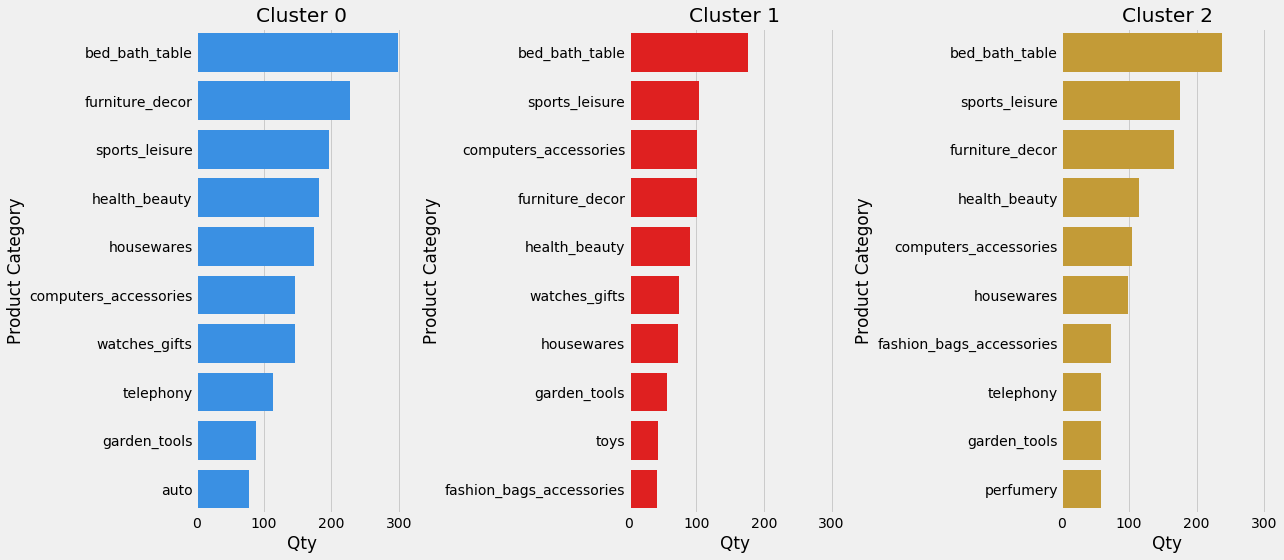
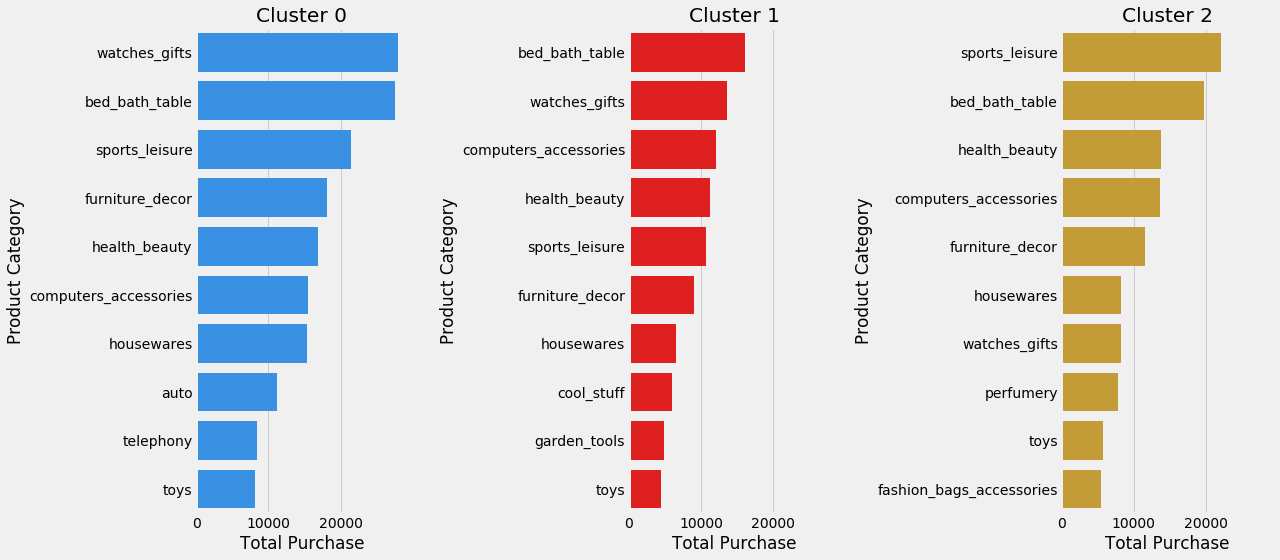
revise some paragraphs, edit codes, revise summary

diff --git a/content/post/2022-01-17-will-the-real-valuable-customers-please-stand-up/Olist.md b/content/post/2022-01-17-will-the-real-valuable-customers-please-stand-up/Olist.md
@@ -1,25 +1,3 @@
----
-title: Will The Real Valuable Customers Please Stand Up? [Python]
-author: Lily Nur Aini
-date: '2022-01-17'
-slug: will-the-real-valuable-customers-please-stand-up
-categories: [Olist Case]
-tags: [customer, CLV, buy till you die, BG, NBD, Gamma gamma, RFM, kmeans, clustering, Python]
-subtitle: ''
-summary: 'It is nearly impossible to find them just by asking the title question, we are going to use data analysis to do that.'
-authors: []
-lastmod: '2022-01-17T18:55:52+07:00'
-profile : false
-featured: true
-draft: false
-image:
-  caption: '[Image by Hannes Edinger on Pixabay](https://pixabay.com/photos/online-shopping-clothing-mobile-2900303/)'
-  focal_point: ''
-  preview_only: no
-projects: []
----
-
-
 ```python
 import numpy as np
 import pandas as pd
@@ -877,7 +855,7 @@ df_rft.head()
 
 
 
-According to the chart, first-time customers and customers who are most frequent with high recency are likely to be alive.
+According to the chart, first-time customers and customers who are most frequent with high recency are likely to be alive
 
 
 ```python
@@ -1937,7 +1915,7 @@ axes[2,1].set(title='Alive(Not Churned) Probability', xlabel='Cluster Id', ylabe
 
 
 K-Means Clustering assigns customers into three clusters/groups, here's their profile:
-- Cluster 0, fresh and fierce: relatively new customers(approx. 1 year) and recently buy something from Olist, but they are willing to spend more than the other groups
+- Cluster 0, fresh and fierce: relatively new customers(approx. 1 year) and recently buy something from Olist, but they are willing to spend more than the other groups.
 - Cluster 1, old but gold: the oldest yet the most alive group that haven't bought anything for roughly a year, although, expect one or two purchases with high value from them over the next two or three months
 - Cluster 2, the middle child: the second oldest and the least in all aspects but they make more than one purchase in a relatively short period of time. BG/NBD sees a potential in this group, maybe all they need is a little push
 
@@ -1971,7 +1949,7 @@ fig.tight_layout();
 ![png](output_68_0.png)
 
 
-Next, the top 10 items they spend their money on.
+Next, the top 10 items they spend their money on
 
 
 ```python
